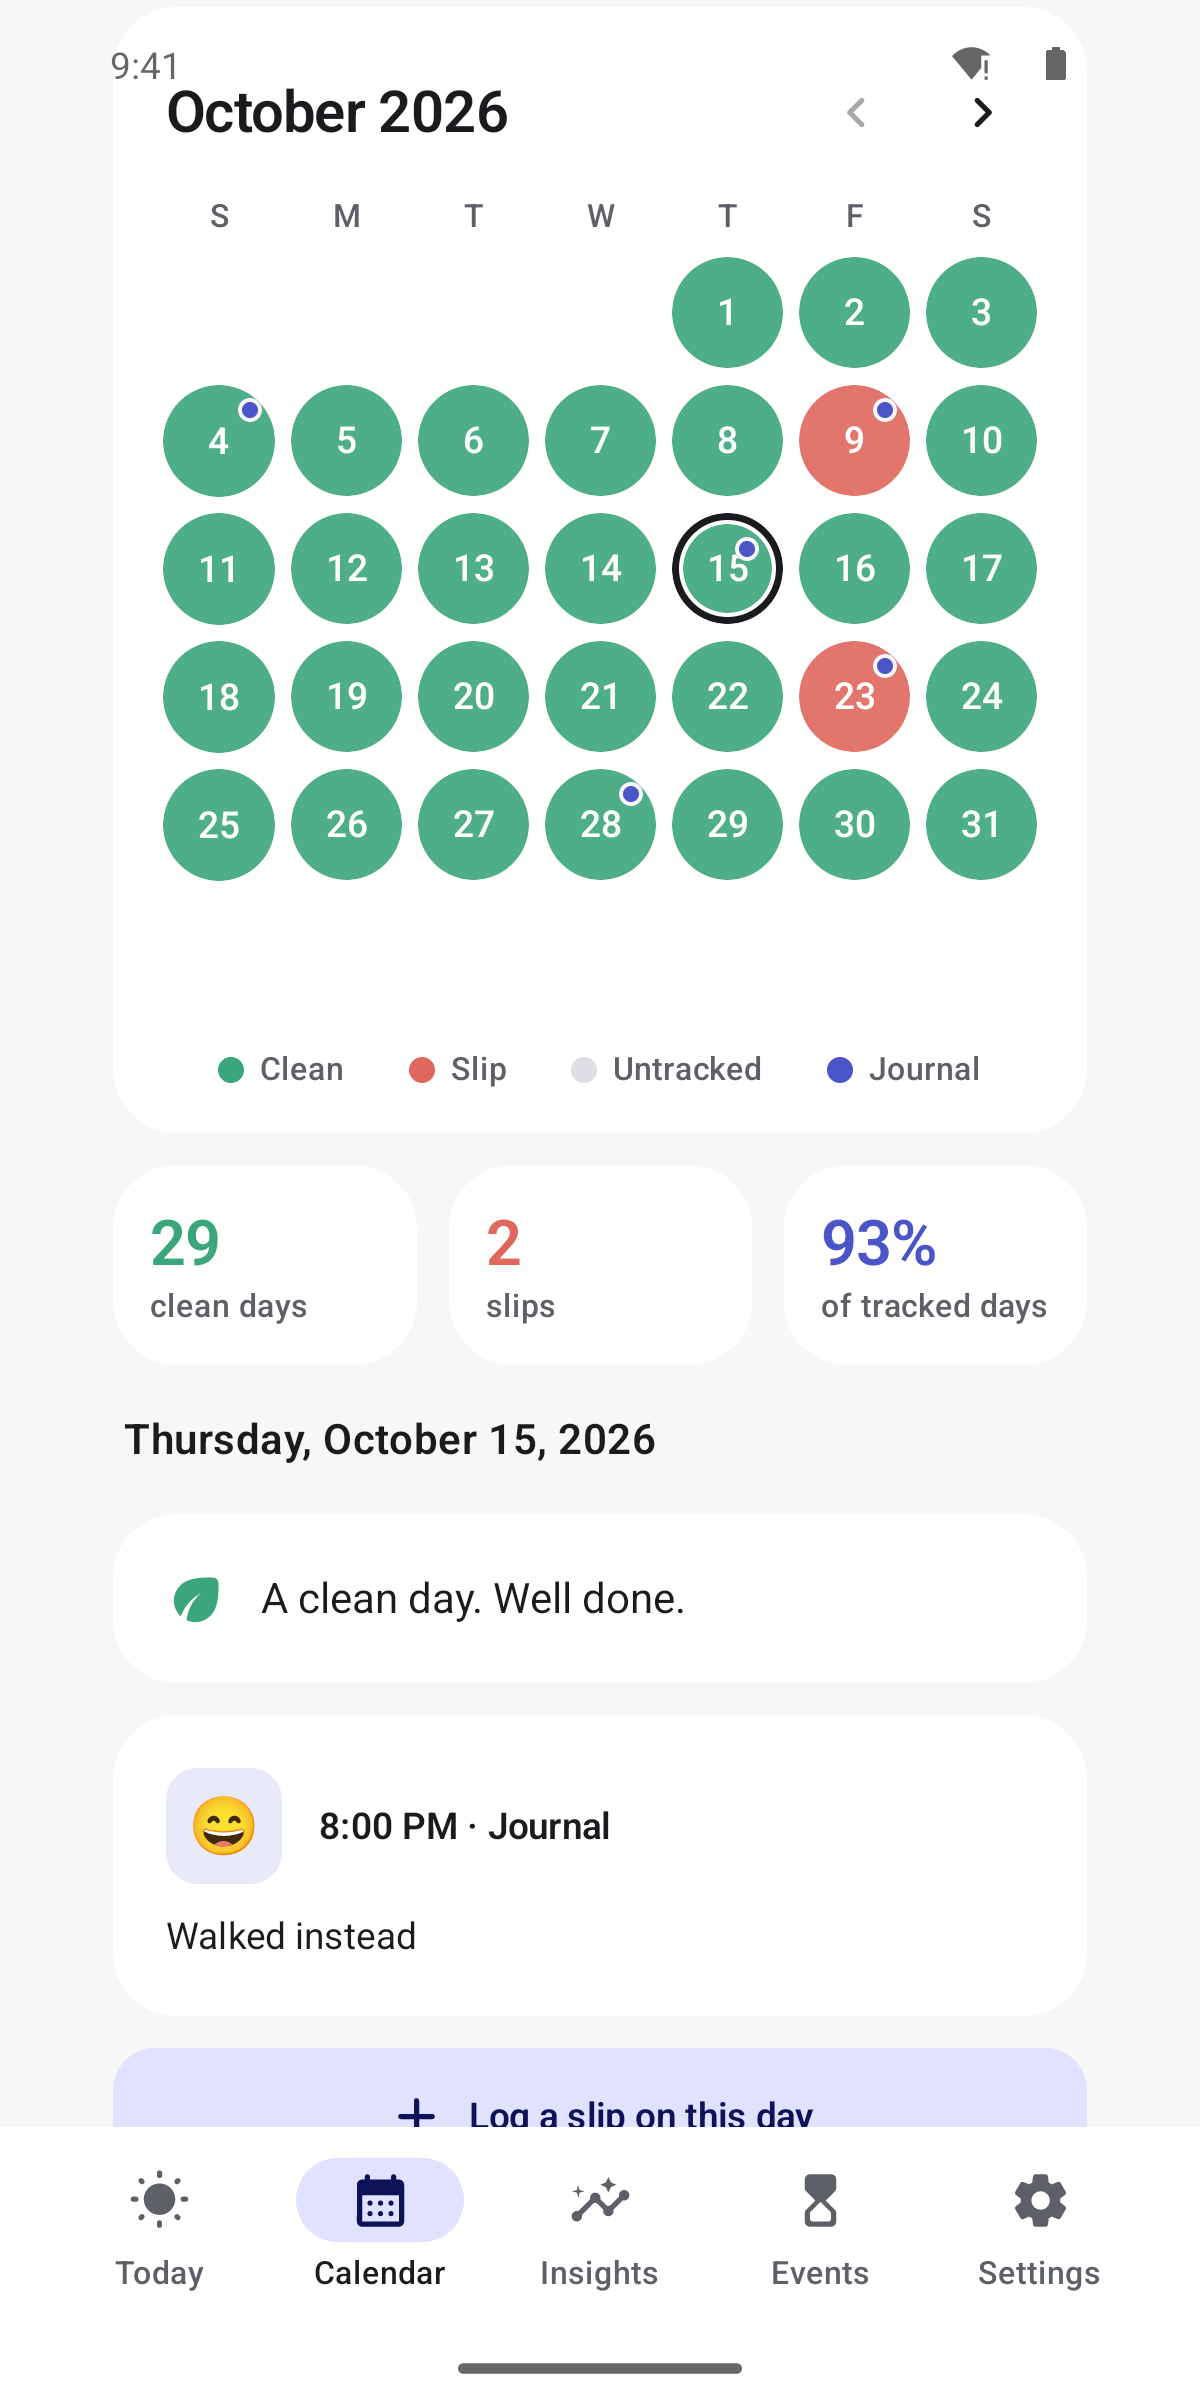
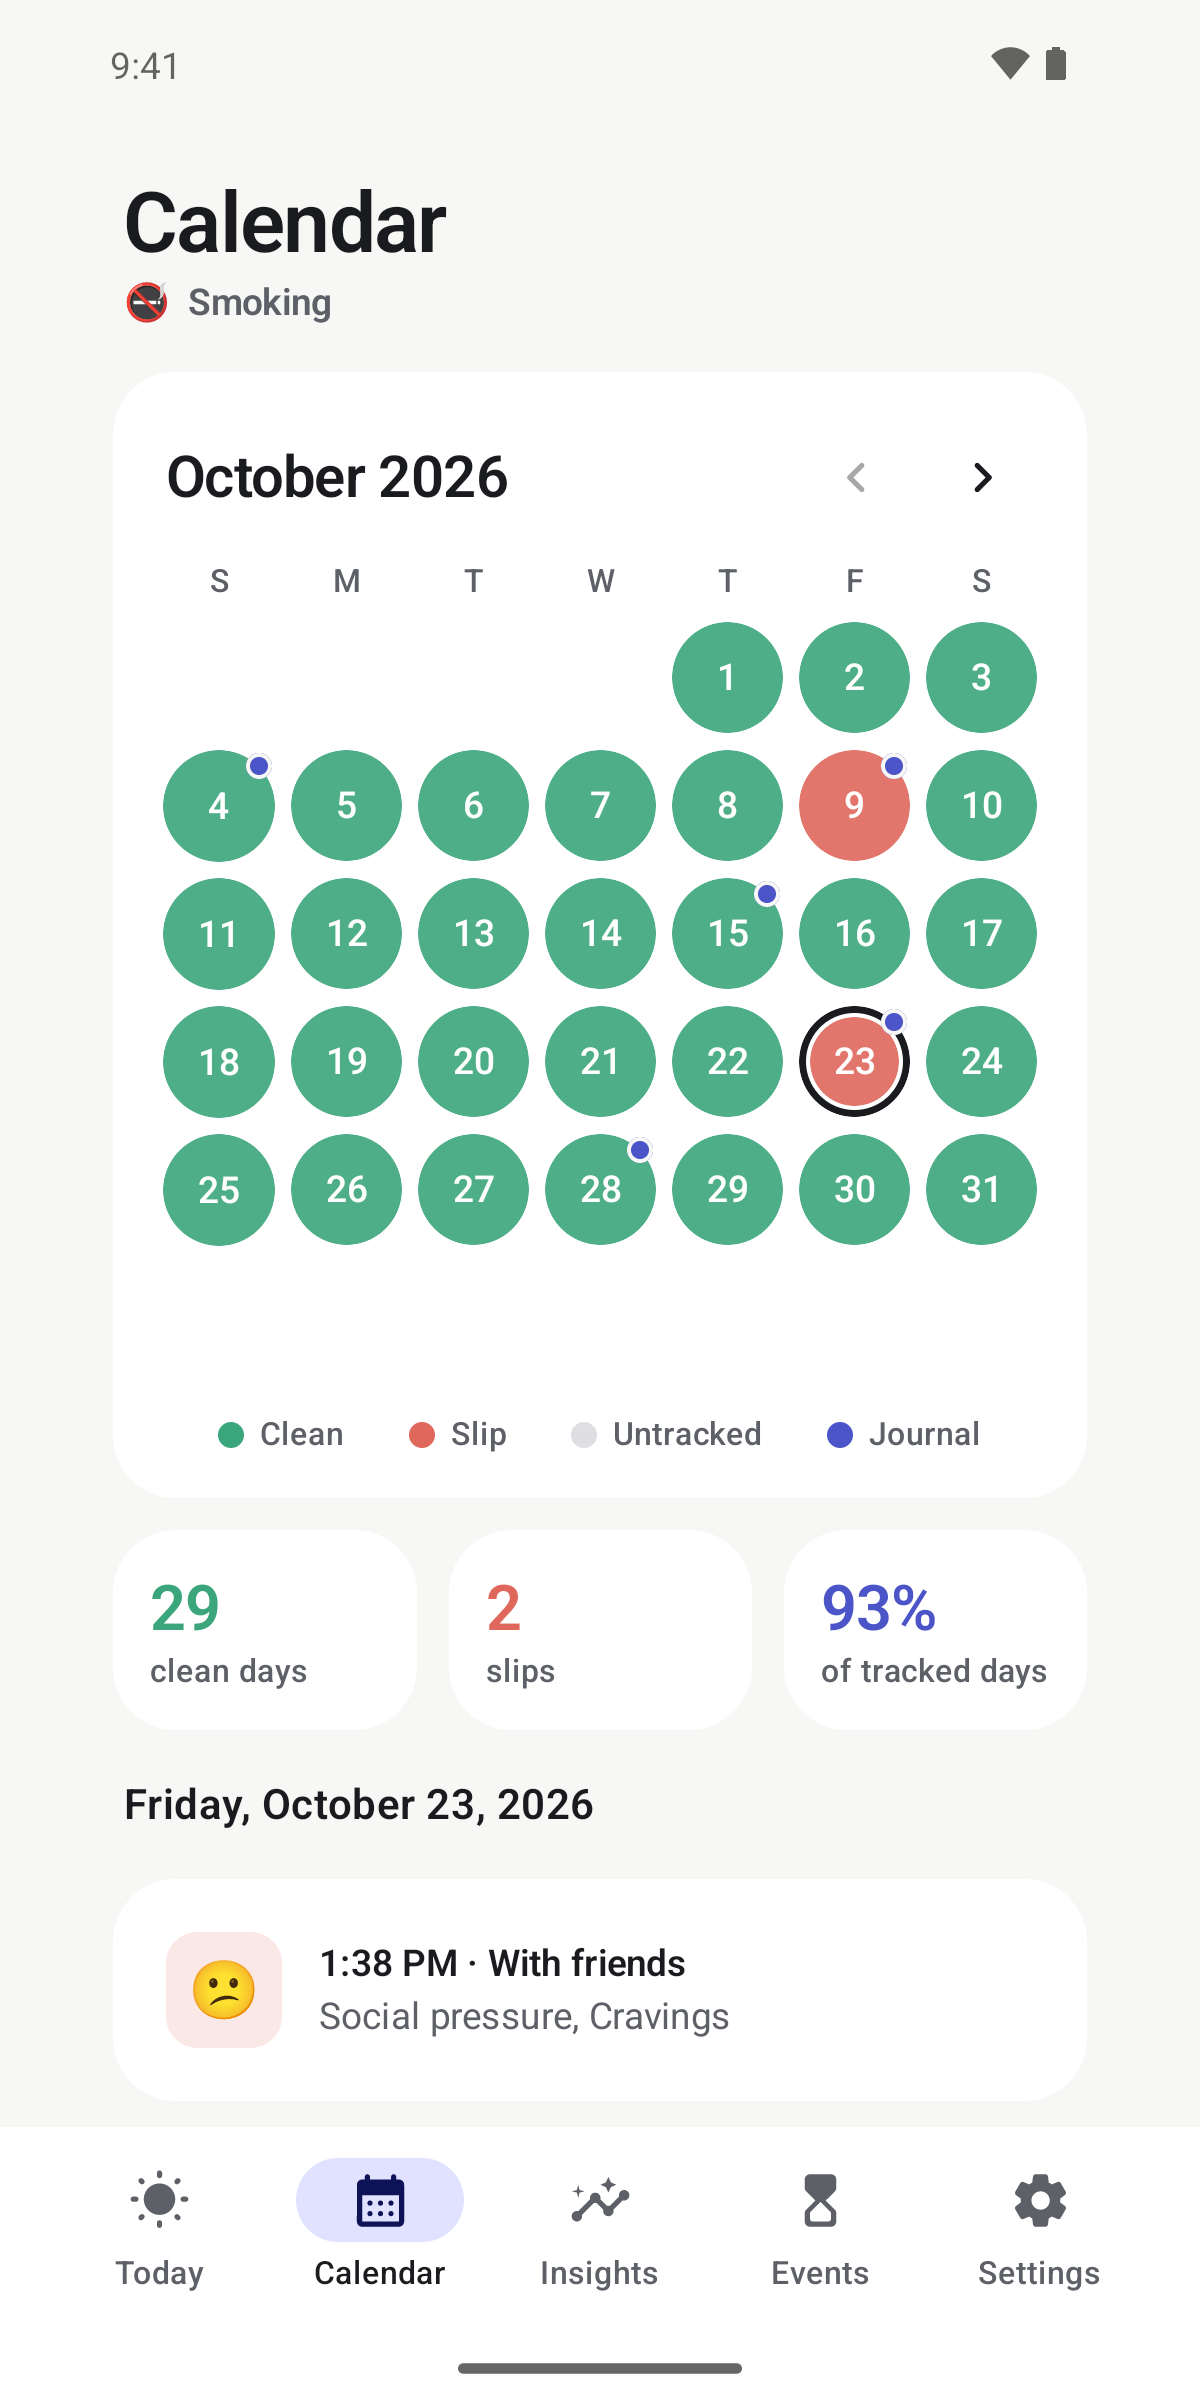
Calendar: mark journal days with a badge (break and build habits), list a build day's journal entries; fix widget-style wording; refresh AppDrop description and screenshots

diff --git a/app/src/main/java/com/daymark/app/ui/calendar/CalendarScreen.kt b/app/src/main/java/com/daymark/app/ui/calendar/CalendarScreen.kt
@@ -5,7 +5,9 @@ import androidx.compose.animation.animateColorAsState
 import androidx.compose.animation.fadeIn
 import androidx.compose.animation.fadeOut
 import androidx.compose.animation.togetherWith
+import androidx.compose.foundation.BorderStroke
 import androidx.compose.foundation.border
+import androidx.compose.foundation.layout.BoxScope
 import androidx.compose.foundation.clickable
 import androidx.compose.foundation.interaction.MutableInteractionSource
 import androidx.compose.foundation.layout.Arrangement
@@ -92,7 +94,7 @@ fun CalendarScreen(
 ) {
     val habit by vm.selectedHabit.collectAsStateWithLifecycle()
     habit?.takeIf { it.isBuild }?.let { h ->
-        BuildCalendarScreen(vm, contentPadding, h, onJournalForDay)
+        BuildCalendarScreen(vm, contentPadding, h, onJournalForDay, onEditJournal)
         return
     }
     val relapses by vm.relapses.collectAsStateWithLifecycle()
@@ -106,6 +108,7 @@ fun CalendarScreen(
     val earliest = slipTimes.minOrNull()
     val startDate = StreakEngine.toDate(earliest?.let { minOf(it, journeyStart) } ?: journeyStart, zone)
     val noteDays = remember(notes) { notes.map { StreakEngine.toDate(it.timestamp, zone) }.toSet() }
+    val journalDays = remember(journal) { journal.map { StreakEngine.toDate(it.timestamp, zone) }.toSet() }
     val relapseDates = remember(slipTimes) { StreakEngine.relapseDates(slipTimes, zone) }
 
     val firstMonth = YearMonth.from(startDate).let { if (it.isAfter(YearMonth.from(today))) YearMonth.from(today) else it }
@@ -165,6 +168,7 @@ fun CalendarScreen(
                         selected = selected,
                         statusOf = statusOf,
                         noteDays = noteDays,
+                        journalDays = journalDays,
                         onSelect = { selectedEpochDay = it.toEpochDay() },
                     )
                 }
@@ -267,6 +271,7 @@ private fun MonthGrid(
     selected: LocalDate,
     statusOf: (LocalDate) -> DayStatus,
     noteDays: Set<LocalDate>,
+    journalDays: Set<LocalDate>,
     onSelect: (LocalDate) -> Unit,
 ) {
     val first = month.atDay(1)
@@ -282,7 +287,7 @@ private fun MonthGrid(
                     Box(Modifier.weight(1f).aspectRatio(1f).padding(3.dp), contentAlignment = Alignment.Center) {
                         if (index in offset until cells) {
                             val date = month.atDay(day)
-                            DayCell(date, statusOf(date), date == today, date == selected, date in noteDays) { onSelect(date) }
+                            DayCell(date, statusOf(date), date == today, date == selected, date in noteDays, date in journalDays) { onSelect(date) }
                         }
                     }
                 }
@@ -292,7 +297,7 @@ private fun MonthGrid(
 }
 
 @Composable
-private fun DayCell(date: LocalDate, status: DayStatus, isToday: Boolean, isSelected: Boolean, hasNote: Boolean, onClick: () -> Unit) {
+private fun DayCell(date: LocalDate, status: DayStatus, isToday: Boolean, isSelected: Boolean, hasNote: Boolean, hasJournal: Boolean, onClick: () -> Unit) {
     val colors = DaymarkTheme.colors
     val haptics = rememberHaptics()
     val source = remember { MutableInteractionSource() }
@@ -303,36 +308,53 @@ private fun DayCell(date: LocalDate, status: DayStatus, isToday: Boolean, isSele
     }
     val bg by animateColorAsState(fill.copy(alpha = if (status == DayStatus.UNTRACKED) 0.6f else 0.9f), Motion.standard(), label = "cell")
     val textColor = if (status == DayStatus.UNTRACKED) MaterialTheme.colorScheme.onSurfaceVariant else Color.White
-    Box(
-        Modifier
-            .fillMaxSize()
-            .pressScale(source, 0.9f)
-            .clip(CircleShape)
-            .then(if (isSelected) Modifier.border(2.5.dp, MaterialTheme.colorScheme.onSurface, CircleShape) else Modifier)
-            .clickable(source, null) { haptics.tick(); onClick() }
-            .padding(if (isSelected) 4.dp else 0.dp)
-            .clip(CircleShape),
-        contentAlignment = Alignment.Center,
-    ) {
-        Surface(color = bg, shape = CircleShape, modifier = Modifier.fillMaxSize()) {}
-        Text(
-            date.dayOfMonth.toString(),
-            style = MaterialTheme.typography.labelLarge.copy(fontWeight = if (isToday) FontWeight.ExtraBold else FontWeight.Medium),
-            color = textColor,
-        )
-        if (isToday) {
-            Surface(
-                color = textColor, shape = CircleShape,
-                modifier = Modifier.align(Alignment.BottomCenter).padding(bottom = 4.dp).size(4.dp),
-            ) {}
+    Box(Modifier.fillMaxSize()) {
+        Box(
+            Modifier
+                .fillMaxSize()
+                .pressScale(source, 0.9f)
+                .clip(CircleShape)
+                .then(if (isSelected) Modifier.border(2.5.dp, MaterialTheme.colorScheme.onSurface, CircleShape) else Modifier)
+                .clickable(source, null) { haptics.tick(); onClick() }
+                .padding(if (isSelected) 4.dp else 0.dp)
+                .clip(CircleShape),
+            contentAlignment = Alignment.Center,
+        ) {
+            Surface(color = bg, shape = CircleShape, modifier = Modifier.fillMaxSize()) {}
+            Text(
+                date.dayOfMonth.toString(),
+                style = MaterialTheme.typography.labelLarge.copy(fontWeight = if (isToday) FontWeight.ExtraBold else FontWeight.Medium),
+                color = textColor,
+            )
+            if (isToday) {
+                Surface(
+                    color = textColor, shape = CircleShape,
+                    modifier = Modifier.align(Alignment.BottomCenter).padding(bottom = 4.dp).size(4.dp),
+                ) {}
+            }
+            if (hasNote) {
+                Surface(
+                    color = textColor.copy(alpha = 0.85f), shape = CircleShape,
+                    modifier = Modifier.align(Alignment.TopCenter).padding(top = 4.dp).size(4.dp),
+                ) {}
+            }
         }
-        if (hasNote) {
-            Surface(
-                color = textColor.copy(alpha = 0.85f), shape = CircleShape,
-                modifier = Modifier.align(Alignment.TopCenter).padding(top = 4.dp).size(4.dp),
-            ) {}
-        }
+        if (hasJournal) JournalBadge()
     }
+}
+
+/**
+ * Marks a day that has a journal entry: a small accent badge sitting on the rim of the day circle (top right), outlined so it
+ * reads on any fill. Place it OUTSIDE the clipped, padded circle, so the selected-day ring never squeezes it onto the digits.
+ */
+@Composable
+internal fun BoxScope.JournalBadge() {
+    Surface(
+        color = MaterialTheme.colorScheme.primary,
+        shape = CircleShape,
+        border = BorderStroke(1.5.dp, MaterialTheme.colorScheme.surface),
+        modifier = Modifier.align(Alignment.TopEnd).padding(top = 1.dp, end = 1.dp).size(10.dp),
+    ) {}
 }
 
 @Composable
@@ -342,6 +364,7 @@ private fun Legend() {
         LegendItem(c.clean, "Clean")
         LegendItem(c.relapse, "Slip")
         LegendItem(c.untracked, "Untracked")
+        LegendItem(MaterialTheme.colorScheme.primary, "Journal")
     }
 }
 
@@ -449,7 +472,7 @@ private fun NoteCard(n: NonSlipNote, zone: ZoneId, onClick: () -> Unit) {
 }
 
 @Composable
-private fun JournalCard(j: JournalEntry, zone: ZoneId, onClick: () -> Unit) {
+internal fun JournalCard(j: JournalEntry, zone: ZoneId, onClick: () -> Unit) {
     val time = Instant.ofEpochMilli(j.timestamp).atZone(zone).toLocalTime().format(DateTimeFormatter.ofLocalizedTime(FormatStyle.SHORT))
     DaymarkCard(Modifier.fillMaxWidth(), onClick = onClick) {
         Row(verticalAlignment = Alignment.CenterVertically) {

diff --git a/app/src/main/java/com/daymark/app/ui/calendar/BuildCalendar.kt b/app/src/main/java/com/daymark/app/ui/calendar/BuildCalendar.kt
@@ -14,6 +14,7 @@ import androidx.compose.foundation.layout.Column
 import androidx.compose.foundation.layout.PaddingValues
 import androidx.compose.foundation.layout.Row
 import androidx.compose.foundation.layout.Spacer
+import androidx.compose.foundation.lazy.items
 import androidx.compose.foundation.layout.aspectRatio
 import androidx.compose.foundation.layout.fillMaxSize
 import androidx.compose.foundation.layout.fillMaxWidth
@@ -57,6 +58,7 @@ import androidx.lifecycle.compose.collectAsStateWithLifecycle
 import com.daymark.app.domain.BuildDay
 import com.daymark.app.domain.BuildEngine
 import com.daymark.app.domain.Habit
+import com.daymark.app.domain.JournalEntry
 import com.daymark.app.domain.Messages
 import com.daymark.app.domain.Schedule
 import com.daymark.app.ui.MainViewModel
@@ -84,9 +86,12 @@ internal fun BuildCalendarScreen(
     contentPadding: PaddingValues,
     habit: Habit,
     onJournalForDay: (LocalDate) -> Unit,
+    onEditJournal: (JournalEntry) -> Unit = {},
 ) {
     val completions by vm.completions.collectAsStateWithLifecycle()
+    val journal by vm.journal.collectAsStateWithLifecycle()
     val zone = remember { ZoneId.systemDefault() }
+    val journalDays = remember(journal) { journal.map { java.time.Instant.ofEpochMilli(it.timestamp).atZone(zone).toLocalDate() }.toSet() }
     val today = LocalDate.now()
     val mask = Schedule.normalize(habit.scheduleDays)
     val amounts = remember(completions) { completions.groupBy { it.date }.mapValues { (_, v) -> v.sumOf { it.amount } } }
@@ -141,6 +146,7 @@ internal fun BuildCalendarScreen(
                         today = today,
                         selected = selected,
                         statusOf = statusOf,
+                        journalDays = journalDays,
                         onSelect = { selectedEpochDay = it.toEpochDay() },
                     )
                 }
@@ -220,6 +226,8 @@ internal fun BuildCalendarScreen(
                 }
             }
         }
+        val dayJournal = journal.filter { java.time.Instant.ofEpochMilli(it.timestamp).atZone(zone).toLocalDate() == selected }.sortedBy { it.timestamp }
+        items(dayJournal, key = { "j${it.id}" }) { j -> JournalCard(j, zone) { onEditJournal(j) } }
         if (!selected.isAfter(today)) {
             item("journalDay") {
                 OutlinedButton(
@@ -247,6 +255,7 @@ private fun BuildMonthGrid(
     today: LocalDate,
     selected: LocalDate,
     statusOf: (LocalDate) -> BuildDay,
+    journalDays: Set<LocalDate>,
     onSelect: (LocalDate) -> Unit,
 ) {
     val first = month.atDay(1)
@@ -260,7 +269,7 @@ private fun BuildMonthGrid(
                     Box(Modifier.weight(1f).aspectRatio(1f).padding(3.dp), contentAlignment = Alignment.Center) {
                         if (index in offset until cells) {
                             val date = month.atDay(index - offset + 1)
-                            BuildDayCell(date, statusOf(date), date == today, date == selected) { onSelect(date) }
+                            BuildDayCell(date, statusOf(date), date == today, date == selected, date in journalDays) { onSelect(date) }
                         }
                     }
                 }
@@ -270,7 +279,7 @@ private fun BuildMonthGrid(
 }
 
 @Composable
-private fun BuildDayCell(date: LocalDate, status: BuildDay, isToday: Boolean, isSelected: Boolean, onClick: () -> Unit) {
+private fun BuildDayCell(date: LocalDate, status: BuildDay, isToday: Boolean, isSelected: Boolean, hasJournal: Boolean, onClick: () -> Unit) {
     val colors = DaymarkTheme.colors
     val haptics = rememberHaptics()
     val source = remember { MutableInteractionSource() }
@@ -290,30 +299,33 @@ private fun BuildDayCell(date: LocalDate, status: BuildDay, isToday: Boolean, is
     }
     val pendingRing = if (status == BuildDay.PENDING) Modifier.border(1.5.dp, MaterialTheme.colorScheme.primary, CircleShape) else Modifier
     val label = status.name.lowercase().replaceFirstChar(Char::uppercase)
-    Box(
-        Modifier
-            .fillMaxSize()
-            .semantics { contentDescription = "${date.dayOfMonth}, $label" }
-            .pressScale(source, 0.9f)
-            .clip(CircleShape)
-            .then(if (isSelected) Modifier.border(2.5.dp, MaterialTheme.colorScheme.onSurface, CircleShape) else pendingRing)
-            .clickable(source, null) { haptics.tick(); onClick() }
-            .padding(if (isSelected) 4.dp else 0.dp)
-            .clip(CircleShape),
-        contentAlignment = Alignment.Center,
-    ) {
-        Surface(color = bg, shape = CircleShape, modifier = Modifier.fillMaxSize()) {}
-        Text(
-            date.dayOfMonth.toString(),
-            style = MaterialTheme.typography.labelLarge.copy(fontWeight = if (isToday) FontWeight.ExtraBold else FontWeight.Medium),
-            color = textColor,
-        )
-        if (isToday) {
-            Surface(
-                color = textColor, shape = CircleShape,
-                modifier = Modifier.align(Alignment.BottomCenter).padding(bottom = 4.dp).size(4.dp),
-            ) {}
+    Box(Modifier.fillMaxSize()) {
+        Box(
+            Modifier
+                .fillMaxSize()
+                .semantics { contentDescription = "${date.dayOfMonth}, $label" + if (hasJournal) ", journal entry" else "" }
+                .pressScale(source, 0.9f)
+                .clip(CircleShape)
+                .then(if (isSelected) Modifier.border(2.5.dp, MaterialTheme.colorScheme.onSurface, CircleShape) else pendingRing)
+                .clickable(source, null) { haptics.tick(); onClick() }
+                .padding(if (isSelected) 4.dp else 0.dp)
+                .clip(CircleShape),
+            contentAlignment = Alignment.Center,
+        ) {
+            Surface(color = bg, shape = CircleShape, modifier = Modifier.fillMaxSize()) {}
+            Text(
+                date.dayOfMonth.toString(),
+                style = MaterialTheme.typography.labelLarge.copy(fontWeight = if (isToday) FontWeight.ExtraBold else FontWeight.Medium),
+                color = textColor,
+            )
+            if (isToday) {
+                Surface(
+                    color = textColor, shape = CircleShape,
+                    modifier = Modifier.align(Alignment.BottomCenter).padding(bottom = 4.dp).size(4.dp),
+                ) {}
+            }
         }
+        if (hasJournal) JournalBadge()
     }
 }
 
@@ -325,6 +337,10 @@ private fun BuildLegend() {
         LegendItem(c.partial, "Partly")
         LegendItem(c.relapse.copy(alpha = 0.5f), "Missed")
         LegendItem(c.untracked, "Rest")
+    }
+    Spacer(Modifier.height(6.dp))
+    Row(Modifier.fillMaxWidth(), horizontalArrangement = Arrangement.Center) {
+        LegendItem(MaterialTheme.colorScheme.primary, "Journal entry")
     }
 }
 

diff --git a/app/src/main/java/com/daymark/app/ui/settings/SettingsScreen.kt b/app/src/main/java/com/daymark/app/ui/settings/SettingsScreen.kt
@@ -305,7 +305,7 @@ fun SettingsScreen(
         item { SectionHeader("Home screen & quick access") }
         item {
             Group {
-                SettingRow(Icons.Rounded.Widgets, "Widgets", "Streak, progress ring, heatmap and daily motivation — five styles", onClick = onOpenWidgets)
+                SettingRow(Icons.Rounded.Widgets, "Widgets", "Streak, progress ring, heatmap and daily motivation — six styles, plus events", onClick = onOpenWidgets)
                 Divider()
                 SettingRow(
                     Icons.Rounded.Shield, "Quick Settings tile",

diff --git a/appdrop/description.md b/appdrop/description.md
@@ -7,6 +7,7 @@ Everything stays on your phone. No account, no ads, no analytics and no internet
 - **Not a slip:** save an involuntary or not-a-slip moment as a private note that never touches your streak
 - **Sharper widgets:** the ring and heatmap are drawn at your screen's full resolution
 - **Add to home screen from inside the app:** long-press an event card or use the editor menu
+- **Journal days on the Calendar:** a badge marks every day you journalled
 
 ## Build a habit
 - Presets such as drink water, read, work out, meditate, walk, stretch, journal or sleep earlier, or make your own
@@ -29,7 +30,7 @@ Everything stays on your phone. No account, no ads, no analytics and no internet
 
 ## Journal, Calendar and Insights
 - A journal for any day, with a mood, a gentle prompt and up to three photos that stay inside Daymark
-- A swipeable calendar: clean days in green, slips in red, untracked days in grey, with a dot on days that have a note
+- A swipeable calendar: clean days in green, slips in red, untracked days in grey, with a dot on days that have a note and a small badge on every day you wrote a journal entry, so you can always find them (build habits get the same badge and show that day's entries)
 - Track as many habits as you like. Each tracker keeps its own streaks, calendar, insights and achievements
 
 ## Events
